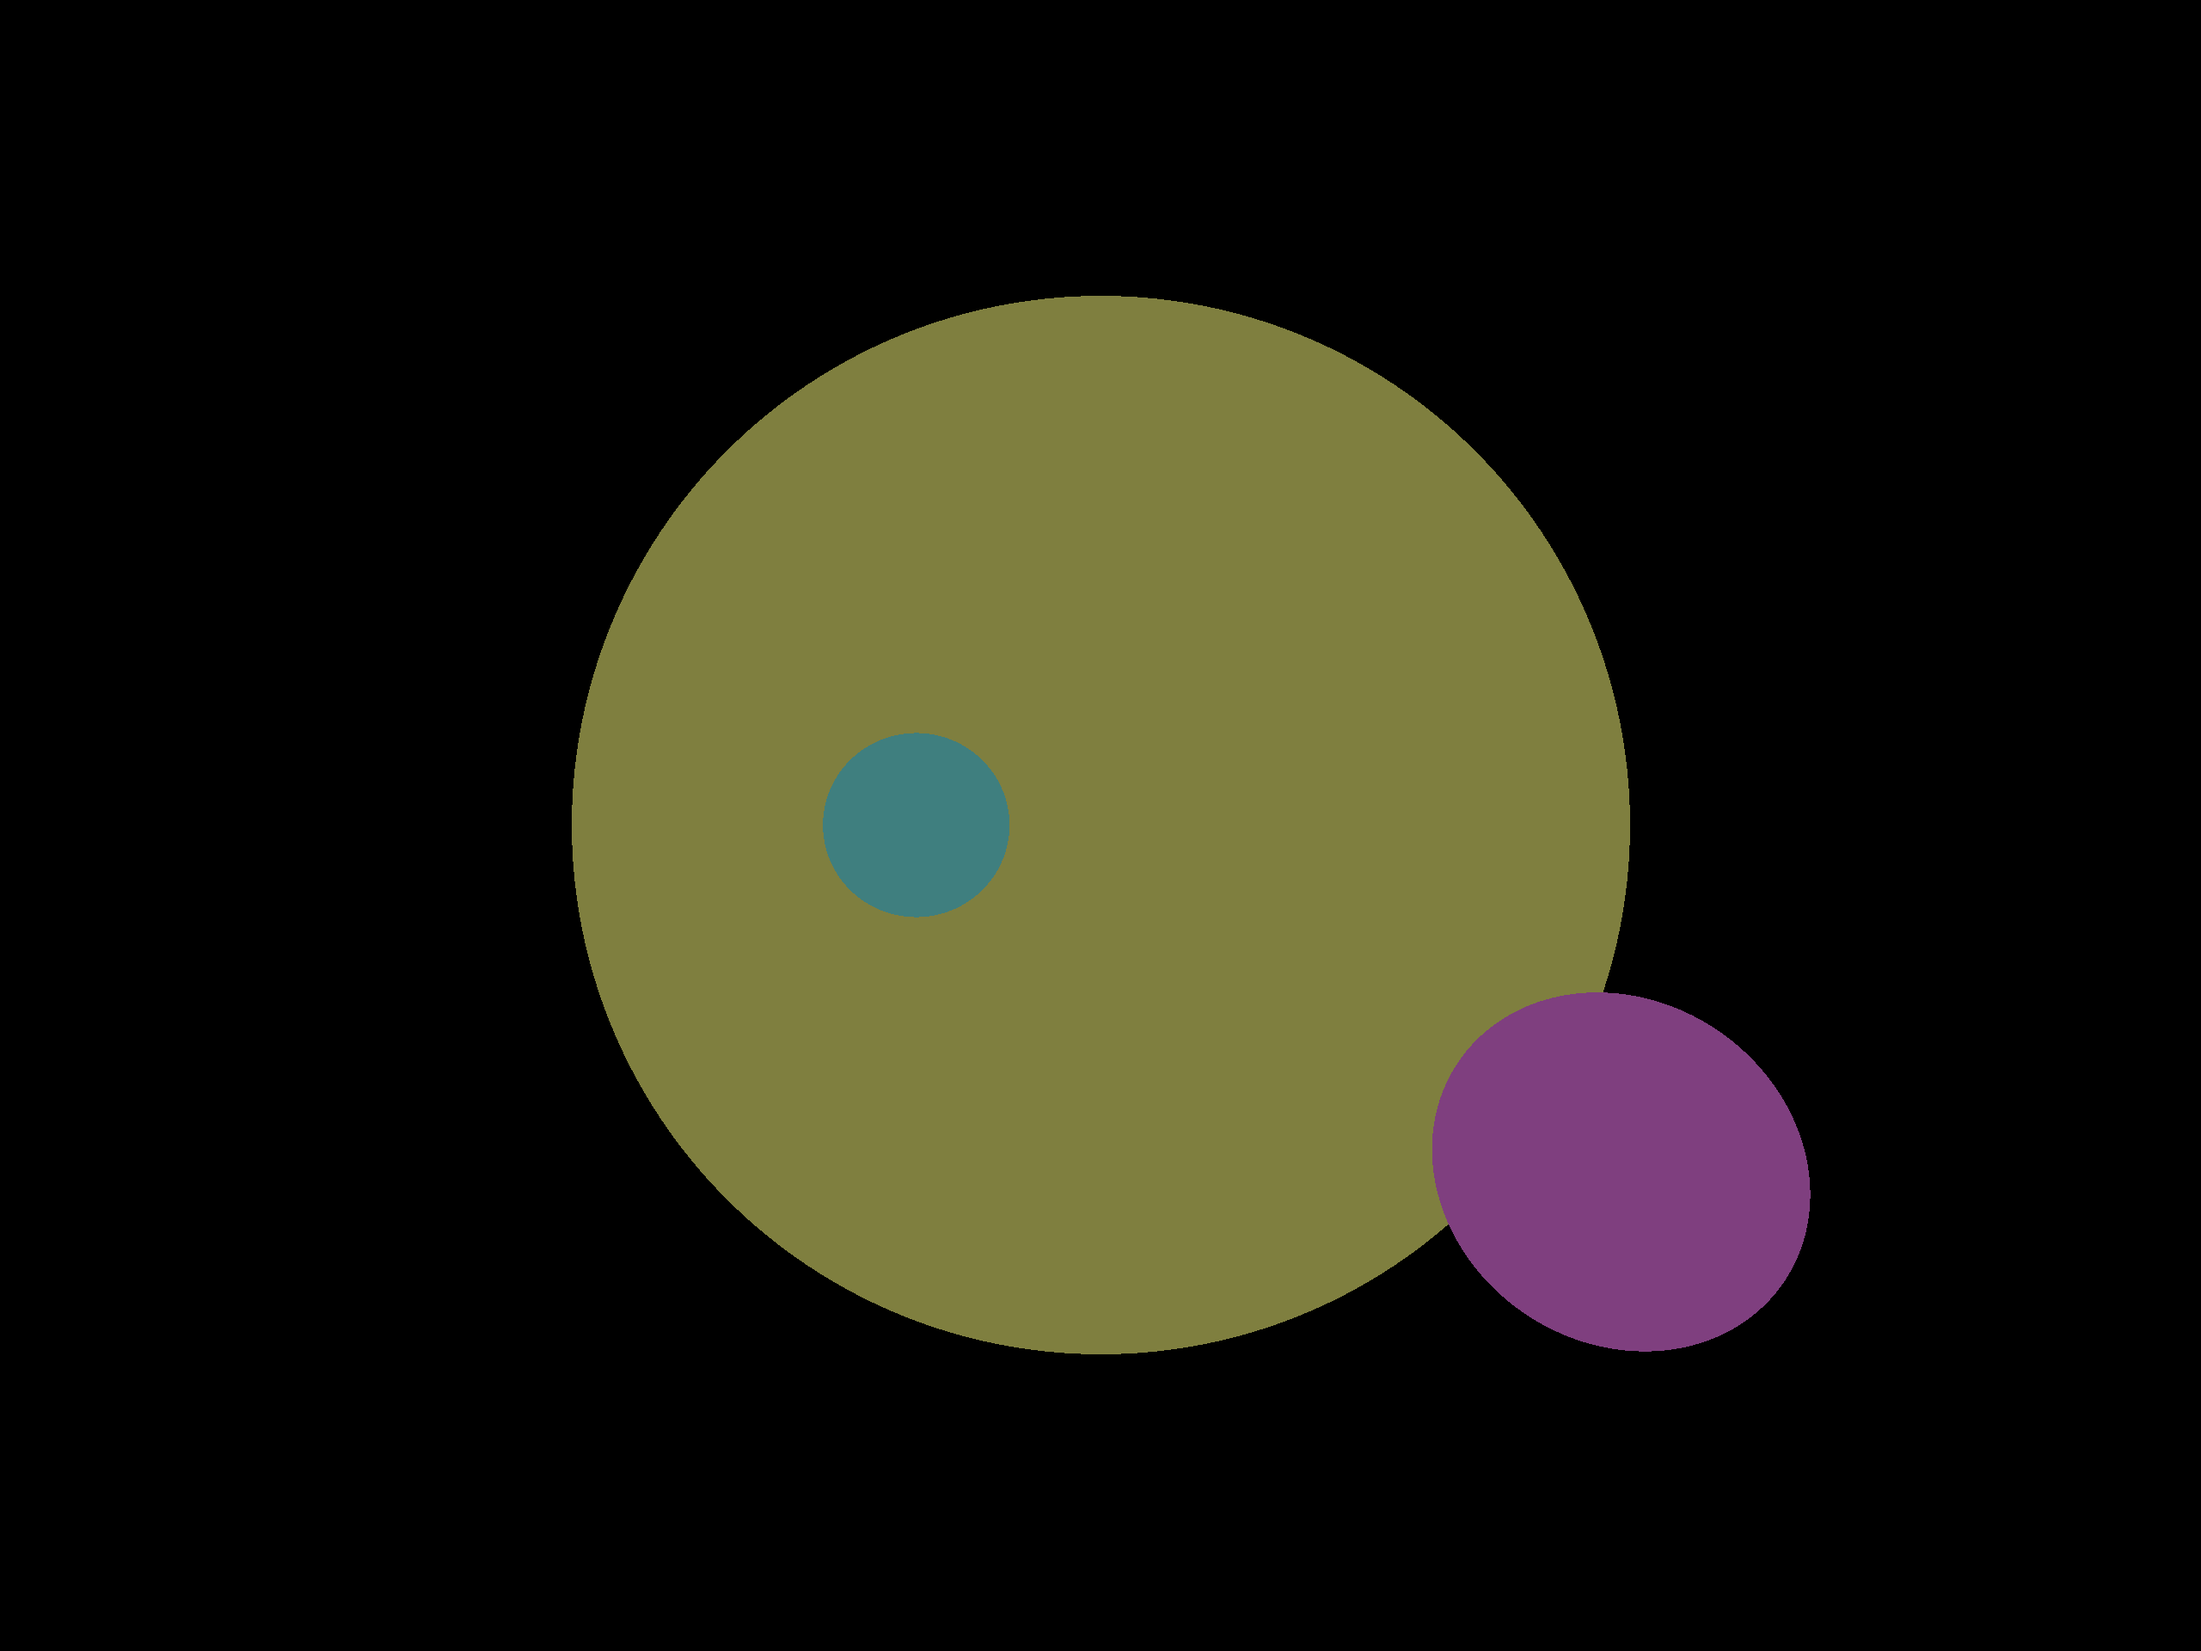
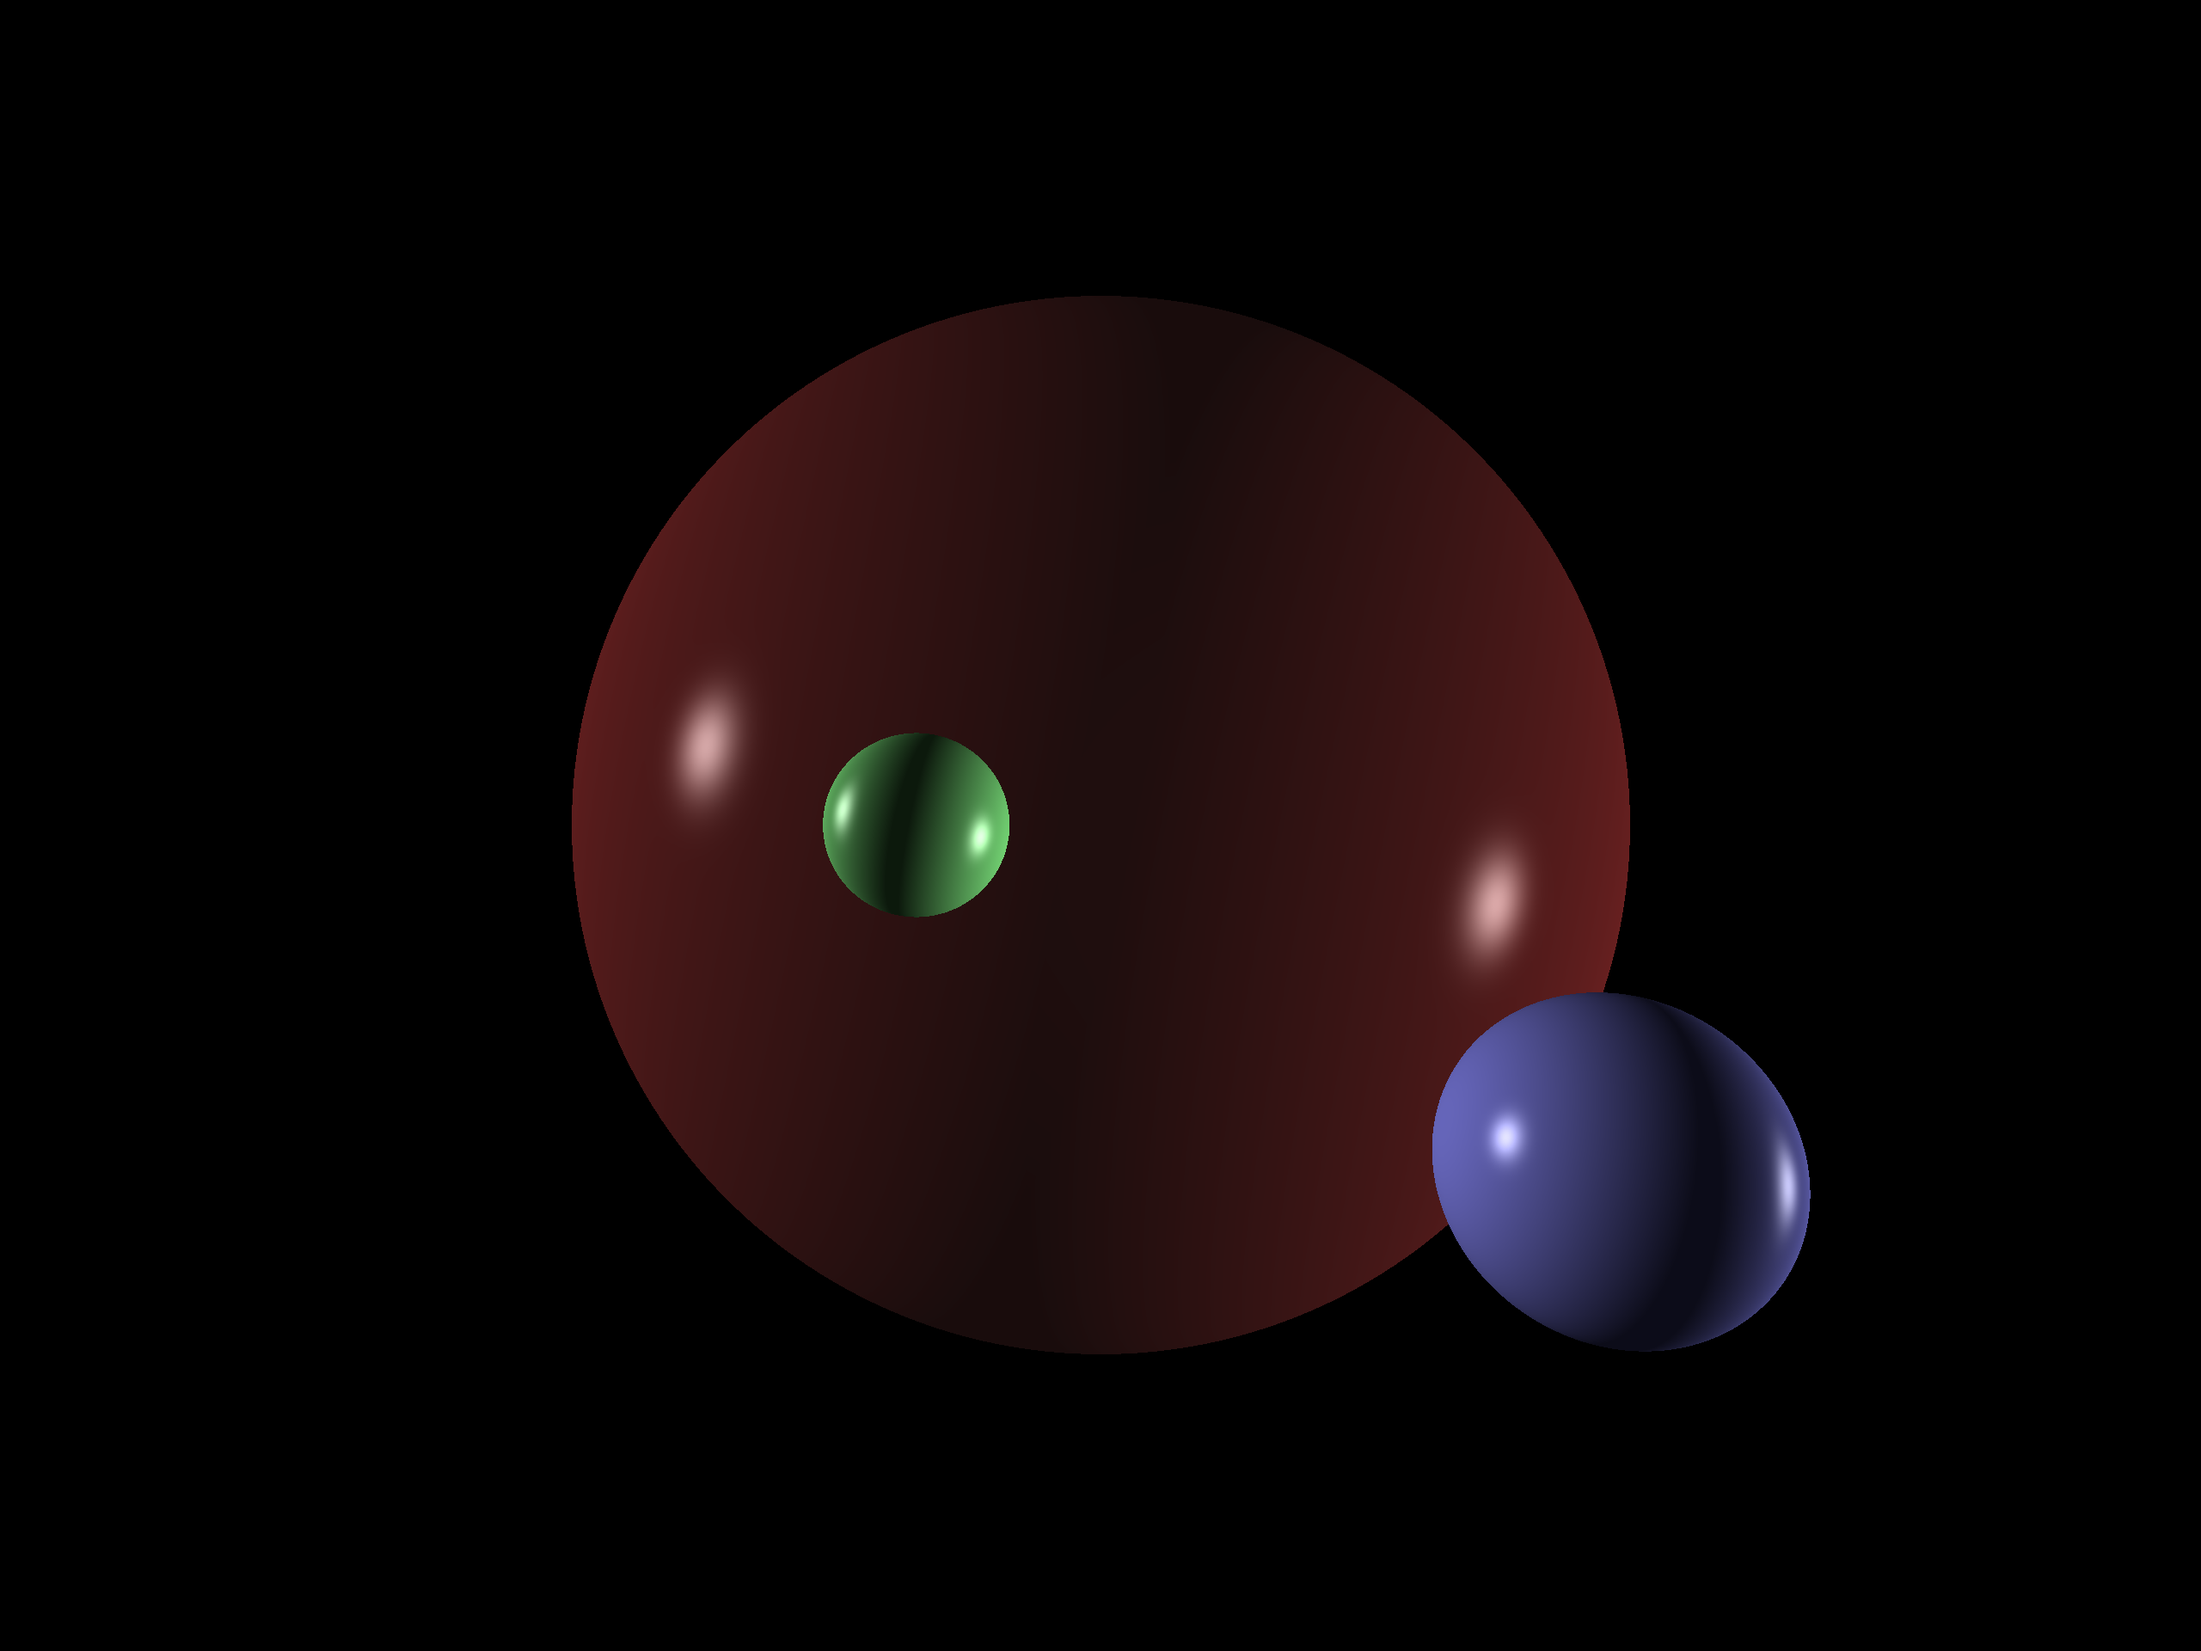
added basic lighting

Changed region(s): [[0.25, 0.1562, 0.8438, 0.8438]]

diff --git a/src/sphere.rs b/src/sphere.rs
@@ -1,27 +1,29 @@
-use crate::{ray::Ray, vector::Vector};
+use image::Rgb;
+
+use crate::{colour::Colour, material::Material, ray::Ray, scene::Scene, vector::Vector};
 
 #[derive(Debug)]
 pub struct Sphere {
     pub point: Vector,
     pub radius: f64,
-    pub colour: [f64; 3],
+    pub material: Material,
 }
 
 impl Sphere {
-    pub fn new(point: Vector, radius: f64, colour: [f64; 3]) -> Self {
+    pub fn new(point: Vector, radius: f64, material: Material) -> Self {
         Self {
             point,
             radius,
-            colour,
+            material,
         }
     }
 
     /// Returns the minimum distance (if applicable) for ray-sphere intersection
     pub fn ray_intersect(&self, ray: &Ray) -> Option<f64> {
         // perform sphere intersection test using quadratic eqn
-        let a = ray.direction.norm().powi(2);
+        let a = ray.direction.magnitude().powi(2);
         let b = 2.0 * ((ray.origin - self.point) * ray.direction);
-        let c = (ray.origin - self.point).norm().powi(2) - self.radius.powi(2);
+        let c = (ray.origin - self.point).magnitude().powi(2) - self.radius.powi(2);
 
         // if discriminant < 0, then no solutions - ray did not intersect sphere
         // if discriminant >= 0, then 1 or 2 solutions - ray either touched or intersected sphere
@@ -45,5 +47,48 @@ impl Sphere {
                 Some(t_1.max(t_2))
             }
         }
+    }
+
+    /// Calculates the colour of the sphere from a given ray and scene.
+    pub fn lighting(&self, ray: &Ray, scene: &Scene, t: f64) -> Rgb<u8> {
+        // find the ray-sphere intersection point and the sphere's surface normal
+        let intersect_point = ray.origin + t * ray.direction;
+        let surface_normal = (intersect_point - self.point).normalise();
+
+        // start off with ambient colour
+        let mut colour = self.material.ambient_constant * scene.ambient_light;
+
+        // then add all the diffuse and specular terms from every light
+        colour += scene
+            .lights
+            .iter()
+            .filter_map(|light| {
+                let light_vector = (light.point - intersect_point).normalise();
+
+                // ignore lights that face the inside of the sphere
+                let direction = surface_normal * light_vector;
+                if direction <= 0.0 {
+                    None
+                } else {
+                    // calculate diffuse term
+                    let diffuse =
+                        self.material.diffuse_constant * light.diffuse_intensity * direction;
+
+                    // calculate specular term
+                    let reflectance = (2.0 * direction * surface_normal - light_vector).normalise();
+                    let view = (Scene::CAMERA - intersect_point).normalise();
+
+                    let specular = self.material.specular_constant
+                        * light.specular_intensity
+                        * (reflectance * view).powf(self.material.shininess);
+
+                    // total lighting for light is sum
+                    Some(diffuse + specular)
+                }
+            })
+            .fold(Colour::new(0.0, 0.0, 0.0), |a, b| a + b);
+
+        // then clamp colours to [0, 1] and convert to u8
+        Rgb(colour.clamp().to_inner().map(|x| (x * 255.0) as u8))
     }
 }

diff --git a/src/colour.rs b/src/colour.rs
@@ -1,0 +1,82 @@
+use std::ops::{Add, AddAssign, Mul};
+
+#[derive(Debug, Default, Clone, Copy)]
+pub struct Colour {
+    r: f64,
+    g: f64,
+    b: f64,
+}
+
+impl Colour {
+    pub fn new(r: f64, g: f64, b: f64) -> Self {
+        Self { r, g, b }
+    }
+
+    /// Gets the inner colour values as a float array
+    pub fn to_inner(self) -> [f64; 3] {
+        [self.r, self.g, self.b]
+    }
+
+    /// Clamp each colour value to [0, 1]
+    pub fn clamp(&self) -> Self {
+        Self {
+            r: self.r.clamp(0.0, 1.0),
+            g: self.g.clamp(0.0, 1.0),
+            b: self.b.clamp(0.0, 1.0),
+        }
+    }
+}
+
+impl Mul<f64> for Colour {
+    type Output = Colour;
+
+    fn mul(self, rhs: f64) -> Self::Output {
+        Self::Output {
+            r: self.r * rhs,
+            g: self.g * rhs,
+            b: self.b * rhs,
+        }
+    }
+}
+
+impl Mul<Colour> for Colour {
+    type Output = Colour;
+
+    fn mul(self, rhs: Colour) -> Self::Output {
+        Self::Output {
+            r: self.r * rhs.r,
+            g: self.g * rhs.g,
+            b: self.b * rhs.b,
+        }
+    }
+}
+
+impl Add<Colour> for Colour {
+    type Output = Colour;
+
+    fn add(self, rhs: Colour) -> Self::Output {
+        Self::Output {
+            r: self.r + rhs.r,
+            g: self.g + rhs.g,
+            b: self.b + rhs.b,
+        }
+    }
+}
+
+impl AddAssign<Colour> for Colour {
+    fn add_assign(&mut self, rhs: Colour) {
+        self.r += rhs.r;
+        self.g += rhs.g;
+        self.b += rhs.b;
+    }
+}
+
+impl From<[f64; 3]> for Colour {
+    fn from(val: [f64; 3]) -> Self {
+        Self {
+            r: val[0],
+            g: val[1],
+            b: val[2],
+        }
+    }
+}

diff --git a/src/main.rs b/src/main.rs
@@ -1,11 +1,17 @@
+mod colour;
+mod light;
+mod material;
 mod ray;
 mod scene;
 mod sphere;
 mod tracer;
 mod vector;
 
+use colour::Colour;
 use image::RgbImage;
 use indicatif::ParallelProgressIterator;
+use light::Light;
+use material::Material;
 use rayon::prelude::*;
 use scene::Scene;
 use sphere::Sphere;
@@ -17,20 +23,33 @@ const WIDTH: u32 = 2560;
 
 fn main() {
     let mut scene = Scene::default();
+    scene.ambient_light = Colour::new(0.5, 0.5, 0.5);
+
     scene.add_sphere(Sphere::new(
         Vector::new(0.0, 0.0, 2.0),
         1.3,
-        [0.5, 0.5, 0.25],
+        Material::new([0.2, 0.1, 0.1], [0.4, 0.1, 0.1], [0.7, 0.7, 0.7], 100.0),
     ));
     scene.add_sphere(Sphere::new(
         Vector::new(0.2, 0.0, 0.2),
         0.1,
-        [0.25, 0.5, 0.5],
+        Material::new([0.1, 0.2, 0.1], [0.5, 0.9, 0.5], [0.7, 0.7, 0.7], 25.0),
     ));
     scene.add_sphere(Sphere::new(
         Vector::new(-0.6, 0.4, 0.3),
         0.2,
-        [0.5, 0.25, 0.5],
+        Material::new([0.1, 0.1, 0.2], [0.5, 0.5, 0.9], [0.7, 0.7, 0.7], 50.0),
+    ));
+
+    scene.add_light(Light::new(
+        Vector::new(-5.0, 1.0, 0.5),
+        Colour::new(0.8, 0.8, 0.8),
+        Colour::new(0.8, 0.8, 0.8),
+    ));
+    scene.add_light(Light::new(
+        Vector::new(5.0, -1.0, 0.5),
+        Colour::new(0.7, 0.7, 0.7),
+        Colour::new(0.8, 0.8, 0.8),
     ));
 
     let tracer = Tracer::new(scene, WIDTH, HEIGHT);

diff --git a/src/scene.rs b/src/scene.rs
@@ -1,8 +1,10 @@
-use crate::{ray::Ray, sphere::Sphere, vector::Vector};
+use crate::{colour::Colour, light::Light, ray::Ray, sphere::Sphere, vector::Vector};
 
 #[derive(Default)]
 pub struct Scene {
     spheres: Vec<Sphere>,
+    pub lights: Vec<Light>,
+    pub ambient_light: Colour,
 }
 
 impl Scene {
@@ -23,14 +25,18 @@ impl Scene {
         self.spheres.push(sphere);
     }
 
+    /// Adds a light to the scene
+    pub fn add_light(&mut self, light: Light) {
+        self.lights.push(light);
+    }
+
     /// Returns the first sphere the ray intersects with, if any
-    pub fn sphere_intersect(&self, ray: Ray) -> Option<&Sphere> {
+    pub fn sphere_intersect(&self, ray: Ray) -> Option<(f64, &Sphere)> {
         // find the closest sphere that intersects, by first figuring out all the spheres that intersect with the ray
         // and then choosing the closest one
         self.spheres
             .iter()
             .filter_map(|sphere| sphere.ray_intersect(&ray).map(|val| (val, sphere)))
             .min_by(|a, b| a.0.partial_cmp(&b.0).unwrap())
-            .map(|(_, sphere)| sphere)
     }
 }

diff --git a/src/vector.rs b/src/vector.rs
@@ -1,4 +1,4 @@
-use std::ops::{Add, Mul, Sub};
+use std::ops::{Add, Div, Mul, Sub};
 
 use forward_ref_generic::{commutative_binop, forward_ref_commutative_binop};
 
@@ -21,8 +21,14 @@ impl Vector {
         (1.0 - amount) * self + amount * other
     }
 
-    pub fn norm(&self) -> f64 {
+    /// Calculates the magnitude of the vector
+    pub fn magnitude(&self) -> f64 {
         (self.x.powi(2) + self.y.powi(2) + self.z.powi(2)).sqrt()
+    }
+
+    /// Normalises a vector such that it points in same direction as before but has magnitude of 1
+    pub fn normalise(&self) -> Self {
+        *self / self.magnitude()
     }
 }
 
@@ -68,6 +74,18 @@ commutative_binop! {
 
 forward_ref_commutative_binop! {
     impl Mul for Vector, f64
+}
+
+impl Div<f64> for Vector {
+    type Output = Vector;
+
+    fn div(self, rhs: f64) -> Self::Output {
+        Self::Output {
+            x: self.x / rhs,
+            y: self.y / rhs,
+            z: self.z / rhs,
+        }
+    }
 }
 
 impl Mul for Vector {

diff --git a/src/material.rs b/src/material.rs
@@ -1,0 +1,25 @@
+use crate::colour::Colour;
+
+#[derive(Debug, Clone, Copy)]
+pub struct Material {
+    pub ambient_constant: Colour,
+    pub diffuse_constant: Colour,
+    pub specular_constant: Colour,
+    pub shininess: f64,
+}
+
+impl Material {
+    pub fn new(
+        ambient_constant: impl Into<Colour>,
+        diffuse_constant: impl Into<Colour>,
+        specular_constant: impl Into<Colour>,
+        shininess: f64,
+    ) -> Self {
+        Self {
+            ambient_constant: ambient_constant.into(),
+            diffuse_constant: diffuse_constant.into(),
+            specular_constant: specular_constant.into(),
+            shininess,
+        }
+    }
+}

diff --git a/src/tracer.rs b/src/tracer.rs
@@ -35,9 +35,9 @@ impl Tracer {
         // figure out if ray intersects with any spheres
         let sphere_intersect = self.scene.sphere_intersect(ray);
 
-        // if intersect occurs, use sphere colour - otherwise black
+        // if intersect occurs, use calculated sphere colour - otherwise black
         match sphere_intersect {
-            Some(sphere) => Rgb(sphere.colour.map(|x| (x * 255.0) as u8)),
+            Some((t, sphere)) => sphere.lighting(&ray, &self.scene, t),
             None => Rgb([0, 0, 0]),
         }
     }

diff --git a/src/light.rs b/src/light.rs
@@ -1,0 +1,17 @@
+use crate::{colour::Colour, vector::Vector};
+
+pub struct Light {
+    pub point: Vector,
+    pub diffuse_intensity: Colour,
+    pub specular_intensity: Colour,
+}
+
+impl Light {
+    pub fn new(point: Vector, diffuse_intensity: Colour, specular_intensity: Colour) -> Self {
+        Self {
+            point,
+            diffuse_intensity,
+            specular_intensity,
+        }
+    }
+}

diff --git a/src/ray.rs b/src/ray.rs
@@ -1,5 +1,6 @@
 use crate::{scene::Scene, vector::Vector};
 
+#[derive(Clone, Copy)]
 pub struct Ray {
     pub origin: Vector,
     pub direction: Vector,
